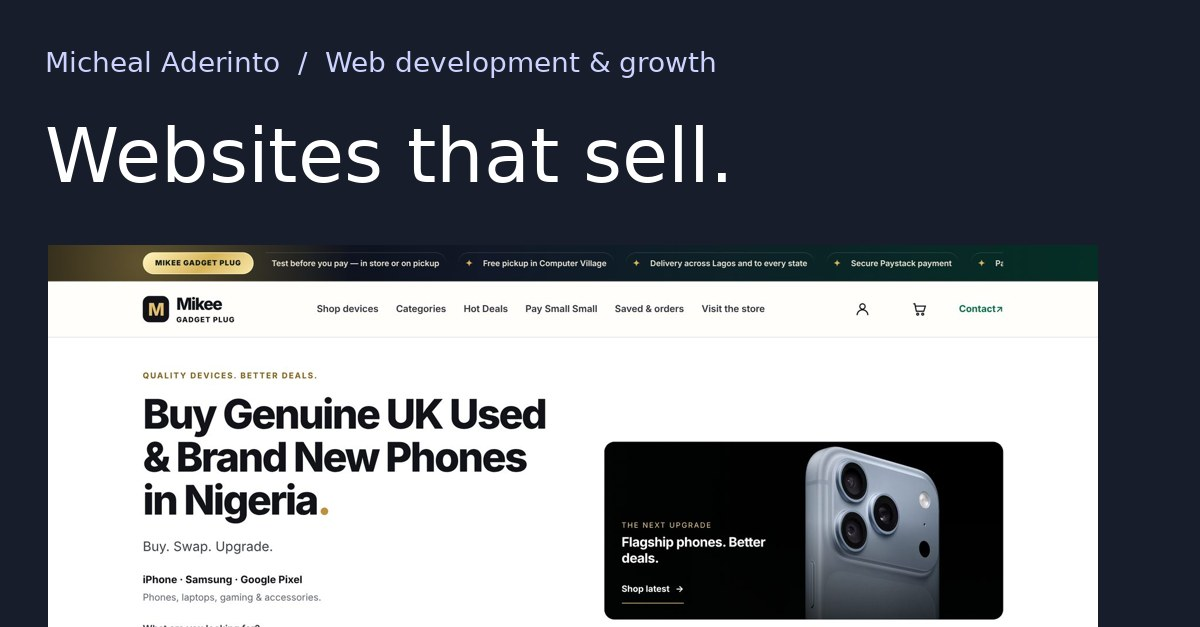
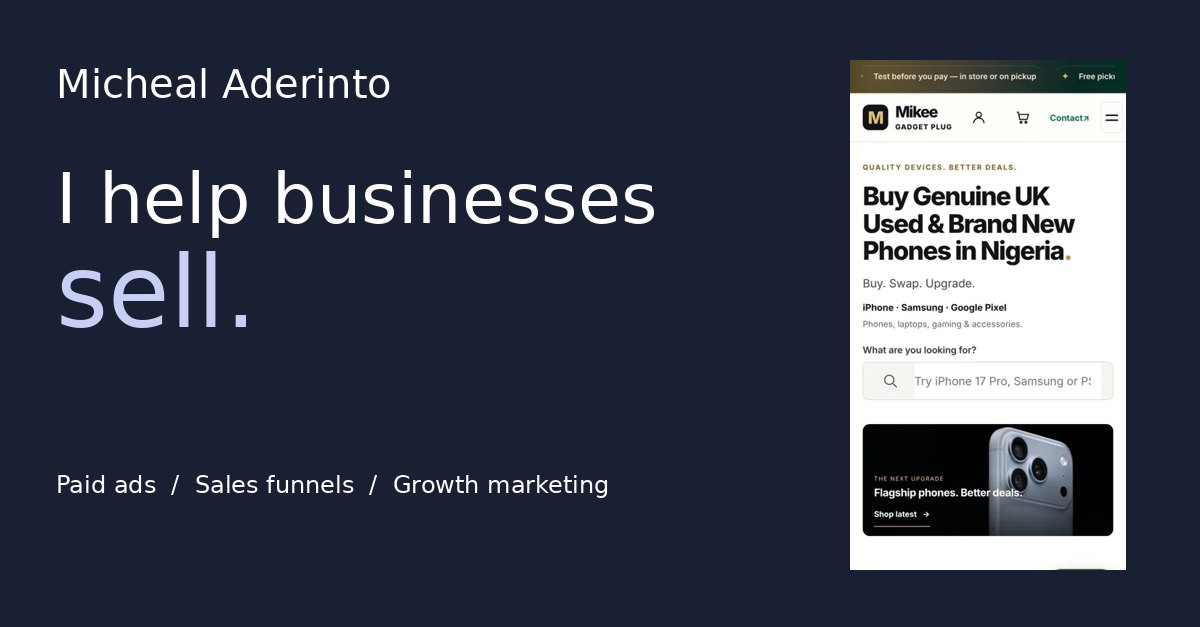
Feature Micheal’s growth marketing practice and project experience

diff --git a/index.html b/index.html
@@ -1,10 +1,10 @@
 <!doctype html>
-<html lang="en"><head><meta charset="utf-8"><meta name="viewport" content="width=device-width, initial-scale=1"><title>Micheal Aderinto · Web Developer & Growth Marketer</title>
-<meta name="description" content="Web development, e-commerce and growth marketing for agencies and remote teams. Explore Mikee Gadget Plug and an interactive lead-recovery demo.">
+<html lang="en"><head><meta charset="utf-8"><meta name="viewport" content="width=device-width, initial-scale=1"><title>Micheal Aderinto · Growth Marketer · Paid Ads & Sales Funnels</title>
+<meta name="description" content="Paid advertising, sales funnels and revenue tracking for agencies and remote teams. Explore Mikee Gadget Plug and an interactive lead-recovery demo.">
 <link rel="canonical" href="https://michealaderinto.vercel.app/">
 <meta property="og:type" content="website">
-<meta property="og:title" content="Micheal Aderinto · Web Developer & Growth Marketer">
-<meta property="og:description" content="Web development, e-commerce and growth marketing for agencies and remote teams. Explore Mikee Gadget Plug and an interactive lead-recovery demo.">
+<meta property="og:title" content="Micheal Aderinto · Growth Marketer · Paid Ads & Sales Funnels">
+<meta property="og:description" content="Paid advertising, sales funnels and revenue tracking for agencies and remote teams. Explore Mikee Gadget Plug and an interactive lead-recovery demo.">
 <meta property="og:url" content="https://michealaderinto.vercel.app/">
 <meta property="og:image" content="https://michealaderinto.vercel.app/assets/portfolio-share.jpg">
 <meta property="og:image:width" content="1200">
@@ -17,12 +17,19 @@ if (legacySections.includes(location.hash.slice(1))) {
 }
 </script>
 </head><body class="pf-home"><a class="pf-skip" href="#content">Skip to content</a><header class="pf-head"><div class="pf-inner"><a class="pf-name" href="/">Micheal Aderinto<span>.</span></a><nav aria-label="Portfolio"><a href="/#work">Work</a><a href="/#services">Skills</a><a href="/#contact">Contact</a></nav></div></header><main id="content">
-<section class="pf-hero pf-wrap"><div><p class="pf-kicker">Web developer &amp; growth marketer</p><h1>I build websites<br>that <i>sell.</i></h1><p class="pf-lede">I’m Micheal Aderinto. I build online stores and landing pages, then connect the ads, tracking and follow-up behind them for agencies and remote teams.</p><a class="pf-button" href="#work">Explore my work</a></div>
+<section class="pf-hero pf-wrap"><div><p class="pf-kicker">Growth marketer · Paid ads &amp; sales funnels</p><h1>I help businesses<br><i>sell.</i></h1><p class="pf-lede">I’m Micheal Aderinto. I run paid ads, build sales funnels and track which campaigns bring in paying customers. I work with founders and agency teams to make their ad spend profitable.</p><a class="pf-button" href="#work">Explore my work</a></div>
 <figure class="pf-feature"><div class="pf-print"><span>MIKEE GADGET PLUG</span><img fetchpriority="high" src="/assets/flagship.webp" width="380" height="702" alt="Mobile storefront I built for Mikee Gadget Plug"><span>IKEJA · LAGOS</span></div><figcaption>Mikee Gadget Plug <small>Founder &amp; developer</small></figcaption></figure></section>
-<section id="work" class="pf-work"><div class="pf-wrap"><p class="pf-kicker">Project archive</p><h2>Selected work<span>.</span></h2><div class="pf-cards">
-<a class="pf-project" href="/mikee-gadget-plug/"><div class="pf-shot"><img loading="lazy" src="/mikee-gadget-plug/img/home-desktop.jpg" alt="Mikee Gadget Plug desktop storefront"></div><p class="pf-kicker">Flagship · Live e-commerce store</p><h3>Mikee Gadget Plug</h3><p>One catalogue powers 270 static pages and 581 variants. A shopper can compare devices, price a trade-in and choose how to pay.</p><b>Read the store case study</b></a>
+<section class="profile-story pf-wrap" aria-labelledby="about-title">
+<div><p class="pf-kicker">About Micheal</p><h2 id="about-title">After the <i>click.</i></h2></div>
+<div><p>I started in digital marketing. Running ads kept bringing me back to one question: what happened to the person who clicked?</p><p>That question led me into landing pages, analytics and CRM. Today I work across the whole sale, from the search that brings someone in to the follow-up that helps them buy. I bring the same perspective to agency work that I bring to my own gadget business in Ikeja.</p></div>
+</section><section id="work" class="pf-work"><div class="pf-wrap"><p class="pf-kicker">Project archive</p><h2>Selected work<span>.</span></h2><div class="pf-cards">
+<a class="pf-project" href="/mikee-gadget-plug/"><div class="pf-shot"><img loading="lazy" src="/mikee-gadget-plug/img/home-desktop.jpg" alt="Mikee Gadget Plug desktop storefront"></div><p class="pf-kicker">Flagship · Live e-commerce store</p><h3>Mikee Gadget Plug</h3><p>At my own gadget store in Ikeja, the buying journey has to answer two questions: “What can I get for my phone?” and “Can I pay in instalments?” I built a trade-in calculator and Credit Direct checkout around those decisions, plus a Google Shopping feed for product discovery.</p><b>Read the store case study</b></a>
 <a class="pf-project" href="/lead-recovery/"><div class="pf-shot secondary"><img loading="lazy" src="/assets/demo-preview.webp" alt="Synthetic funnel dashboard for the lead-recovery demonstration"></div><p class="pf-kicker">Concept demo · Synthetic data</p><h3>Missed Lead Recovery</h3><p>Follow a fictional enquiry from a Google ad through qualification, a booked call and a CRM revenue record.</p><b>Explore the working demo</b></a></div></div></section>
-<section id="services" class="pf-wrap pf-band"><div><p class="pf-kicker">Services &amp; skills</p><h2>What I bring<br>to a team<span>.</span></h2></div><dl class="pf-rows"><dt>Commerce &amp; landing pages</dt><dd>Product catalogues, checkout flows and campaign pages built around the buyer’s next decision.</dd><dt>Acquisition &amp; measurement</dt><dd>Google Ads, Google Shopping feeds, GA4, Google Tag Manager and TikTok Pixel event tracking.</dd><dt>CRM &amp; AI automation</dt><dd>Lead qualification, follow-up workflows and sales assistants with a handoff to a real person.</dd></dl></section>
-<section class="pf-process"><div class="pf-wrap"><p class="pf-kicker">My process</p><h2>How I work<span>.</span></h2><ol><li><h3>Map the journey</h3><p>I trace the steps between the ad and the sale, including what happens when a customer needs help.</p></li><li><h3>Build the flow</h3><p>I connect the page, checkout or CRM so the customer and the team know what happens next.</p></li><li><h3>Test the handoff</h3><p>I check mobile layouts, event data and the records the team receives before launch.</p></li></ol></div></section>
-<div class="pf-stack pf-wrap"><strong>Working stack</strong><span>JavaScript</span><span>Node.js</span><span>Supabase</span><span>Vercel</span><span>GA4 / GTM</span><span>OpenAI</span></div>
-<section id="contact" class="pf-contact"><div class="pf-wrap"><p class="pf-kicker">Agency partnerships &amp; remote roles</p><h2>What are you building?</h2><p>Tell me about the store, campaign or customer journey your team is working on.</p><a class="pf-button" href="mailto:aderintomicheal6@gmail.com">Email Micheal</a></div></section></main><footer class="pf-foot"><div class="pf-inner"><a class="pf-name" href="/">Micheal Aderinto<span>.</span></a><nav aria-label="Contact links"><a href="mailto:aderintomicheal6@gmail.com">Email</a><a href="https://www.linkedin.com/in/micheal-babatunde-085702382/">LinkedIn</a><a href="https://github.com/MICHEALSHOE2000">GitHub</a></nav></div></footer></body></html>
+<section class="profile-index pf-wrap" aria-labelledby="experience-title"><p class="pf-kicker">Project experience</p><h2 id="experience-title">Across industries<span>.</span></h2><details><summary><span>Real estate</span><strong>Pella Group</strong></summary><div><p>I worked on the property-buyer journey from Google Ads and landing pages through lead capture, CRM follow-up and onboarding. Conversion tracking and reporting connected those stages.</p><a href="https://pellagroup.ng">Visit Pella Group</a></div></details><details><summary><span>Real estate</span><strong>Light Way Homes</strong></summary><div><p>I contributed to the website, landing pages and lead generation strategy, using funnel tracking to understand the path to a qualified property enquiry.</p><a href="http://lightwayhomesltd.com">Visit Light Way Homes</a></div></details><details><summary><span>Consumer health</span><strong>Healthcare &amp; supplements</strong></summary><div><p>I studied search intent, ad performance and visitor behaviour across sales pages and forms to identify friction and refine the path to purchase.</p></div></details><details><summary><span>Local retail</span><strong>Skyfonze Ltd</strong></summary><div><p>I designed a mobile-first gadget store around two actions: starting a WhatsApp enquiry and visiting the physical shop.</p></div></details><details><summary><span>E-commerce</span><strong>Megabros Enterprise</strong></summary><div><p>I built a catalogue for phones, laptops, tablets and accessories so shoppers could explore products before messaging the team or visiting in person.</p></div></details><details><summary><span>Events</span><strong>Wedding RSVP platform</strong></summary><div><p>I built a guest experience with RSVP management, an event schedule, countdowns, guest information and location maps.</p></div></details><details><summary><span>Marketing operations</span><strong>Growth systems &amp; automation</strong></summary><div><p>I connected ad and website data with lead capture, CRM workflows and reporting so teams could follow an enquiry through the sales process.</p></div></details></section><section id="services" class="pf-wrap pf-band"><div><p class="pf-kicker">Services &amp; skills</p><h2>How I help<br>you sell<span>.</span></h2></div><dl class="pf-rows"><dt>Paid advertising</dt><dd>I plan and run Google, Meta and TikTok ads around the offer, the buyer and what the business can afford to spend to win a customer.</dd><dt>Sales funnels &amp; landing pages</dt><dd>I write the offer and design the page people land on after the click. For a store, that means a clear path to checkout. For a service business, it means a qualified enquiry and a booked call.</dd><dt>Tracking &amp; follow-up</dt><dd>I connect GA4, GTM and TikTok Pixel to the funnel, then use CRM and AI automation to help the sales team follow up and trace closed sales back to the campaign.</dd></dl></section>
+<section class="pf-process"><div class="pf-wrap"><p class="pf-kicker">My process</p><h2>How I work<span>.</span></h2><ol><li><h3>Start with the numbers</h3><p>I ask what a sale is worth, what margin is left and how buyers decide. That gives us a target acquisition cost before we spend.</p></li><li><h3>Match the ad to the offer</h3><p>I carry the promise from the ad onto the landing page and give the buyer one clear next step.</p></li><li><h3>Follow the sale</h3><p>I review which clicks became orders or qualified leads, where buyers dropped off and what to test next.</p></li></ol></div></section>
+<section class="profile-kit pf-wrap"><h2>Inside my toolkit<span>.</span></h2><dl>
+<dt>Acquisition &amp; conversion</dt><dd>Google Ads, Google Shopping, Meta Ads, TikTok Ads, local SEO, Google Business Profile, lead generation and conversion rate optimisation.</dd>
+<dt>Measurement</dt><dd>GA4, Google Tag Manager, TikTok Pixel, Microsoft Clarity, UTM tracking, funnel analysis and attribution.</dd>
+<dt>Web development</dt><dd>HTML, CSS, JavaScript, React, Next.js, TypeScript and Tailwind CSS. GitHub, Netlify and Vercel for delivery.</dd>
+<dt>Marketing operations</dt><dd>Zapier, Make, n8n, Formspree, Google Sheets and Microsoft Office for lead capture, CRM workflows, onboarding and reporting.</dd></dl>
+<aside><p class="pf-kicker">Current focus</p><p>I’m deepening my work in revenue operations, attribution modelling and AI-assisted CRM workflows, especially how teams track the journey from a first enquiry to a sale.</p></aside></section><section id="contact" class="pf-contact"><div class="pf-wrap"><p class="pf-kicker">Agency partnerships &amp; remote roles</p><h2>What are you trying to sell?</h2><p>Tell me about your offer, who buys it and where sales slow down. I’m open to agency partnerships and remote growth marketing roles.</p><a class="pf-button" href="mailto:aderintomicheal6@gmail.com">Email Micheal</a> <a class="profile-contact-link" href="https://wa.me/2347086865133">WhatsApp</a> <a class="profile-contact-link" href="https://blivex-agency-website.vercel.app">Visit my agency</a></div></section></main><footer class="pf-foot"><div class="pf-inner"><a class="pf-name" href="/">Micheal Aderinto<span>.</span></a><nav aria-label="Contact links"><a href="mailto:aderintomicheal6@gmail.com">Email</a><a href="https://www.linkedin.com/in/micheal-babatunde-085702382/">LinkedIn</a><a href="https://github.com/MICHEALSHOE2000">GitHub</a></nav></div></footer></body></html>

diff --git a/portfolio.css b/portfolio.css
@@ -63,3 +63,37 @@
 .pf-foot .pf-name span{display:inline;font:inherit;color:var(--pf-blue)}
 .pf-case .chapters,.pf-case .chapters>section{min-width:0;grid-template-columns:minmax(0,1fr)}
 .pf-case .chapters{overflow-wrap:anywhere}
+
+/* Portfolio profile and project index */
+.profile-story,.profile-kit,.profile-index{padding-block:clamp(3rem,6vw,6rem)}
+.profile-story{display:grid;grid-template-columns:1fr 1.2fr;gap:7%;border-top:1px solid var(--pf-rule)}
+.profile-story i{font-family:Georgia,serif;font-weight:400;color:var(--pf-blue)}
+.profile-story p,.profile-kit dd{max-width:58ch}
+.profile-story div:last-child p:first-child{font:clamp(1.4rem,2.3vw,2.05rem)/1.28 Georgia,serif;margin-top:0}
+.profile-index{border-bottom:1px solid var(--pf-rule)}
+.profile-index h2{margin-bottom:2rem}
+.profile-index details{border-top:1px solid var(--pf-rule)}
+.profile-index details:last-child{border-bottom:1px solid var(--pf-rule)}
+.profile-index summary{cursor:pointer;display:grid;grid-template-columns:minmax(9rem,.38fr) 1fr auto;align-items:center;gap:1.25rem;padding:1.25rem .3rem;list-style:none}
+.profile-index summary::-webkit-details-marker{display:none}
+.profile-index summary span,.profile-kit dt{font:650 .87rem/1.5 ui-monospace,monospace;color:#414867}
+.profile-index summary strong{font-size:clamp(1.35rem,2.7vw,2.4rem);line-height:1.12;letter-spacing:-.045em}
+.profile-index summary::after{content:"+";color:var(--pf-blue);font-size:1.6rem}
+.profile-index details[open] summary::after{content:"−"}
+.profile-index details[open],.profile-index summary:hover{background:#edf0fb}
+.profile-index details div{padding:0 1rem 1.5rem clamp(1rem,26%,19rem);max-width:95ch}
+.profile-index details p{margin:0 0 .5rem}
+.profile-index a{color:var(--pf-blue)}
+.profile-kit dl{display:grid;grid-template-columns:minmax(10rem,.6fr) 1.4fr;margin:2rem 0}
+.profile-kit dt,.profile-kit dd{margin:0;border-top:1px solid var(--pf-rule);padding:1rem 0}
+.profile-kit aside{padding:1.5rem 2rem;border-left:3px solid var(--pf-blue);background:#e7e9fc}
+.profile-kit aside p{max-width:75ch;margin:.4rem 0}
+.profile-contact-link{display:inline-block;color:white;margin:.8rem;text-underline-offset:.3em}
+@media(max-width:700px){
+.profile-story,.profile-kit dl{grid-template-columns:1fr}
+.profile-story{gap:1.5rem}
+.profile-index summary{grid-template-columns:1fr auto;gap:.35rem}
+.profile-index summary span{grid-column:1/-1}
+.profile-index details div{padding-left:.3rem}
+.profile-kit dd{border:0;padding-top:0}
+}
